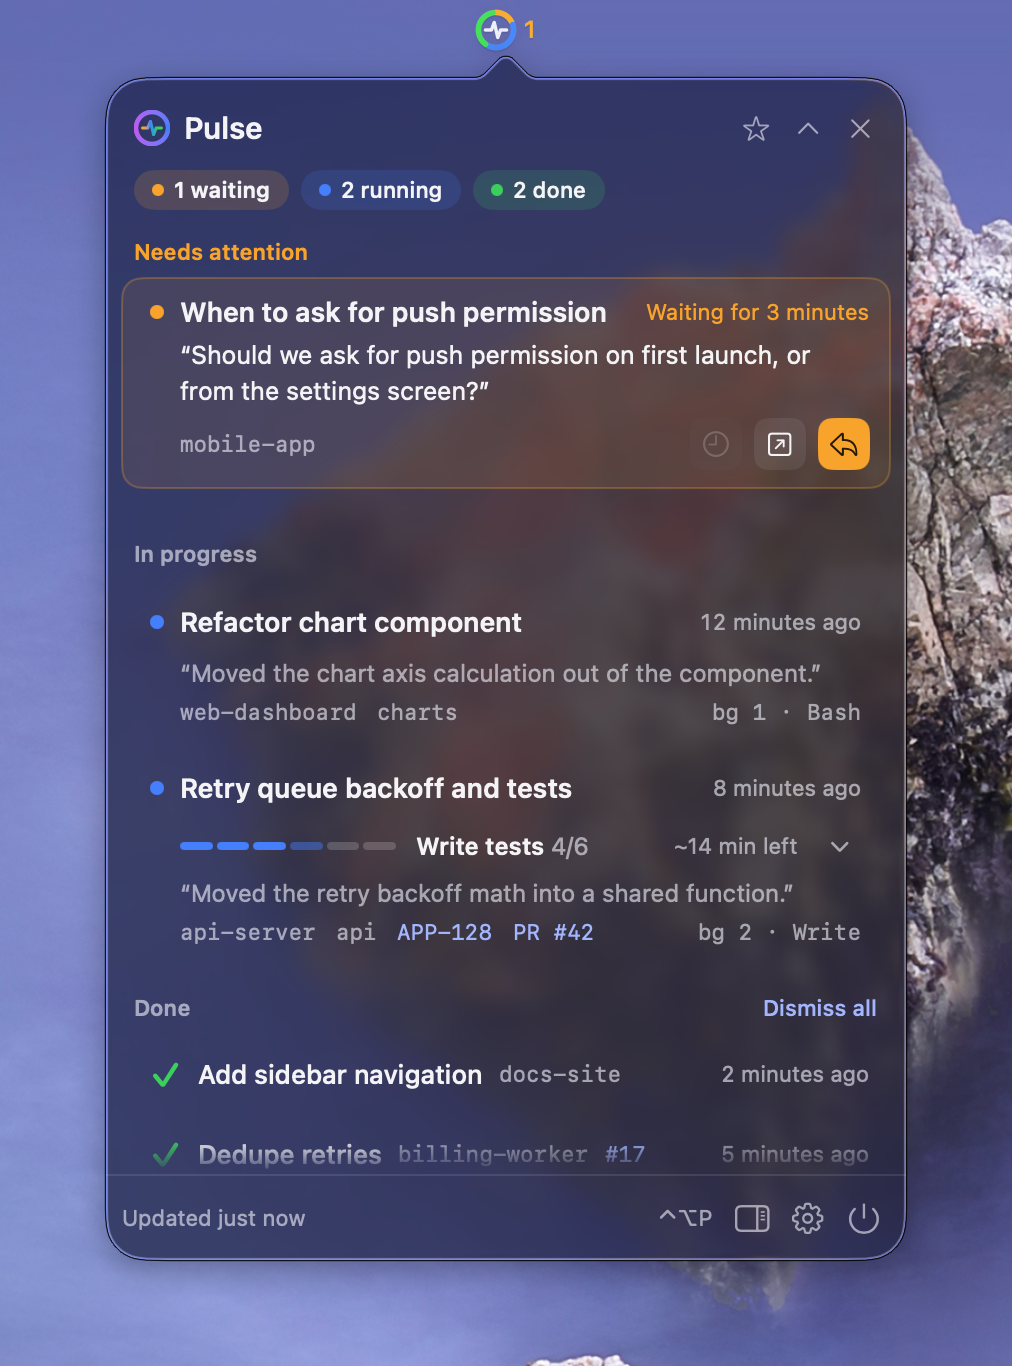
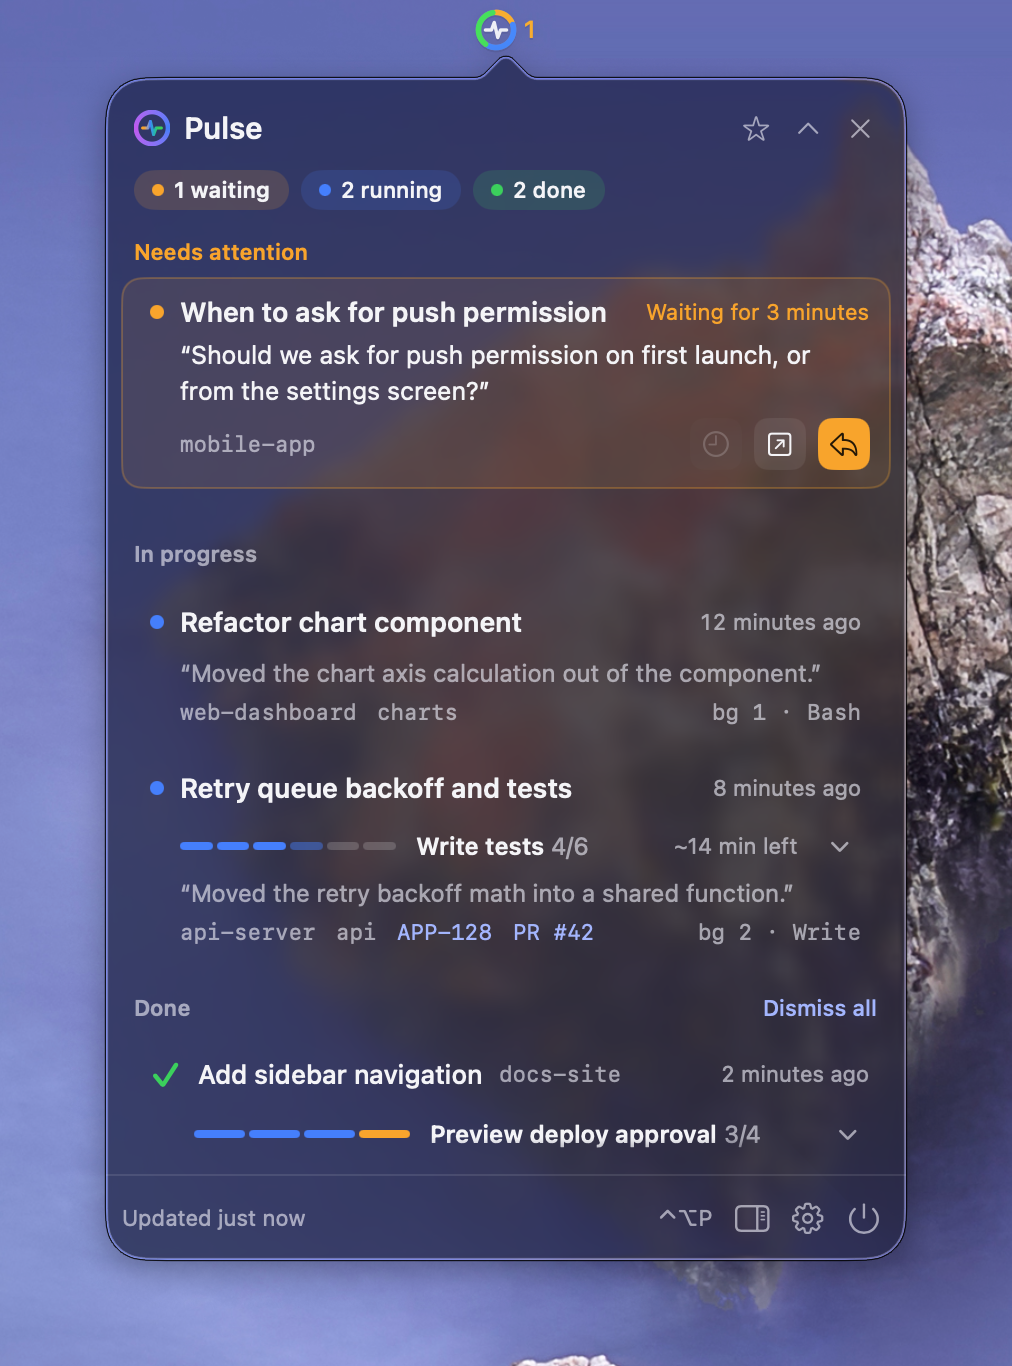
docs: 완료 행 단계 줄 설명과 그림 갱신
- README 두 판의 완료 설명에 남은 체크리스트의 단계 줄 추가
- popover, deadhd-steps, panel 그림을 한국어판·영어판으로 다시 촬영

diff --git a/README.md b/README.md
@@ -55,7 +55,7 @@ brew services start lcalmsky/pulse/pulse
 
 - **확인 필요** 기다린 시간과 마지막 답을 보여 줍니다. 버튼은 10분 더 기다리기, 열기, 답하기입니다
 - **진행 중** 단계 막대와 남은 시간, 지금 하는 일을 보여 줍니다. 마우스를 올리면 진행 페이지와 Orca 버튼이 나옵니다
-- **완료** 최근 5개만 보이고 나머지는 `그 밖에 N개` 로 접힙니다
+- **완료** 최근 5개만 보이고 나머지는 `그 밖에 N개` 로 접힙니다. deadhd 체크리스트를 다 끝내지 못한 채 턴이 끝난 세션은 완료 행에도 단계 줄이 나오고, 눌러서 단계를 펼칠 수 있습니다
 - **머리글과 바닥글** 위에는 세 그룹의 수와 GitHub 별 버튼·접기 버튼, 아래에는 갱신 시각과 플로팅 패널·설정·종료 버튼이 있습니다
 - **검색** `⌘`·`⌃` 없이 글자를 치면 머리글 아래에 검색 줄이 열립니다. 제목, 워크트리·브랜치, 작업 디렉터리 이름, 키, 티켓 키, PR 라벨에서 찾고, 공백으로 나눈 낱말이 모두 들어 있어야 합니다. 화면에서 접힌 완료 항목까지 찾습니다
 

diff --git a/README.en.md b/README.en.md
@@ -55,7 +55,7 @@ The list is ordered **attention → working → done**.
 
 - **Attention** shows how long it has been waiting and the last answer. The buttons are wait 10 more minutes, open, and reply
 - **Working** shows a step bar, the remaining time, and what it is doing now. On hover, the progress page and go to Orca buttons appear
-- **Done** shows the latest five only and folds the rest into `N more`
+- **Done** shows the latest five only and folds the rest into `N more`. A session whose turn ended before its deadhd checklist was finished keeps a step line on its done row, and you can click it to expand the steps
 - **Header and footer** the header has the three group counts and the GitHub star and collapse buttons, and the footer has the refresh time and the floating panel, settings, and quit buttons
 - **Search** typing without `⌘` or `⌃` opens a search line below the header. It searches titles, worktrees and branches, working directory names, keys, ticket keys, and PR labels, and every space-separated word must be present. It also finds done items folded out of view
 
